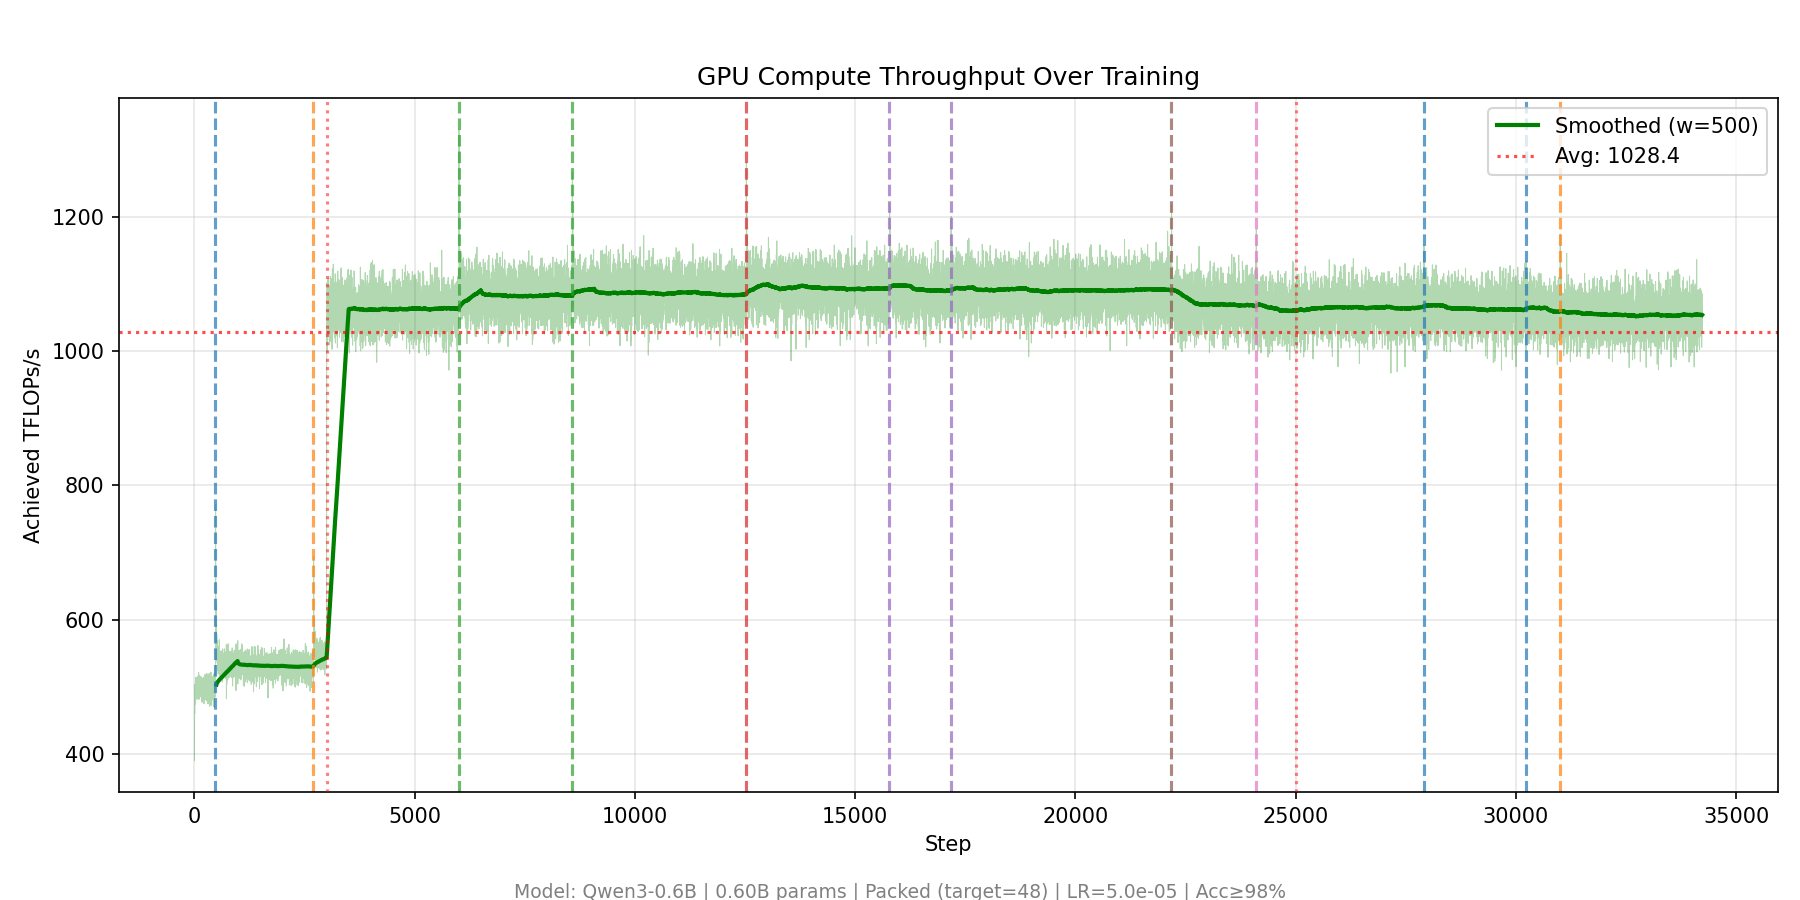
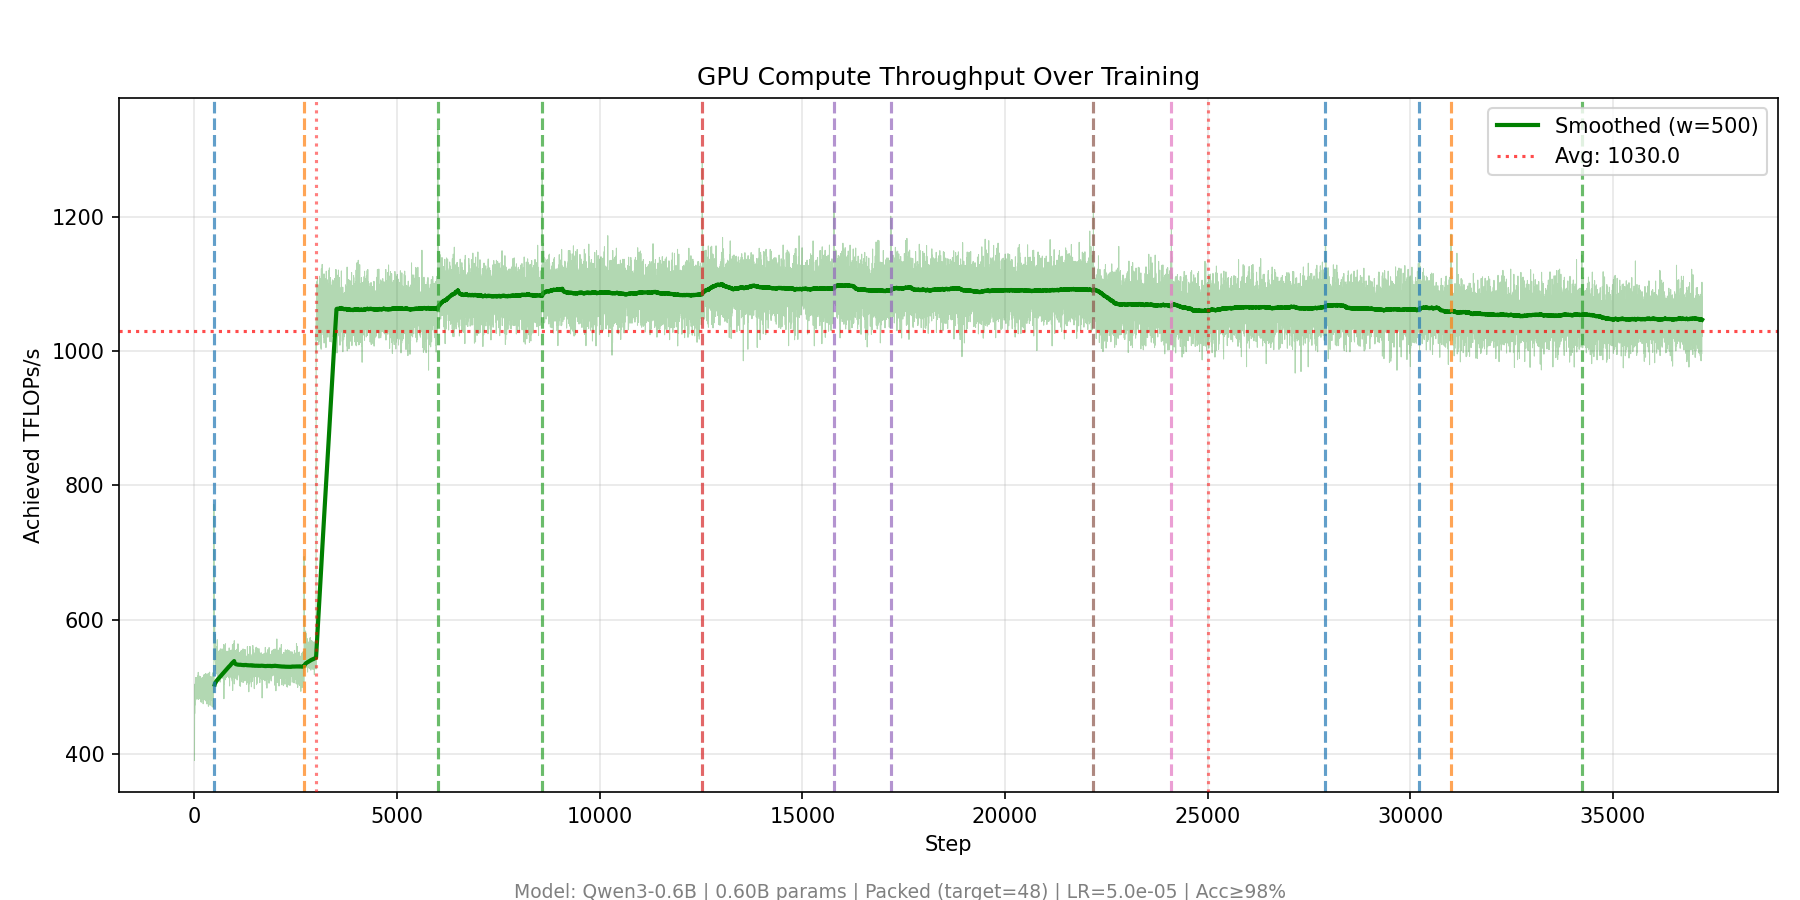
chore(exp1): sync progress and metrics (2026-10-14 15:31 UTC)

diff --git a/PROGRESS.md b/PROGRESS.md
@@ -3,7 +3,7 @@
 **Base commit:** `da7b19c` (`main`)
 **Branch:** `jackierwzhang/exp1-qwen06b-lora-vs-fullft`
 **VMs:** `nl-exp1-spot-fullft` (`europe-west1-c`, deleted after completion), `nl-exp1-spot-r8` (`a3-highgpu-4g`, 4x H100-80GB Spot, `us-east4-a`), `nl-exp1-spot-r64` (`a3-highgpu-4g`, 4x H100-80GB Spot, `europe-west1-c`), `nl-exp1-spot-r256` (`a3-highgpu-4g`, 4x H100-80GB Spot, `us-east4-b`)
-**Last updated:** 2026-10-14 15:14 UTC
+**Last updated:** 2026-10-14 15:31 UTC
 
 ## Shared Configuration
 
@@ -26,11 +26,11 @@
 | Arm | Job ID | Mode | GPUs | Status | Step | Stage / $L$ | Rolling Full Acc | Rolling First Acc | Loss | PFLOPs | TFLOP/s | Wall Time | Est. Remaining |
 | :--- | :--- | :--- | :--- | :--- | ---: | :--- | ---: | ---: | ---: | ---: | ---: | ---: | :--- |
 | Full-FT | `exp1_qwen06b_fullft` | Full FT | 0,1,2,3 (Spot 4x H100: nl-exp1-spot-fullft, europe-west1-c) | Completed | 27570 | 16 (`L=128`) | 97.62% | 98.88% | 0.0163 | 116023.73 | 405.3 | 71.26h | 0.0h (Done) |
-| LoRA `R=8` | `exp1_qwen06b_lora_r8` | `--use_lora --lora_rank 8` (`alpha=16, dropout=0.1`) | 0,1,2,3 (Spot 4x H100: nl-exp1-spot-r8, us-east4-a) | Running | 37170 | 14 (`L=112`) | 97.38% | 98.25% | 0.0182 | 124722.59 | 237.0 | 109.10h | ~33.7h (stage-wt) / ~0.0h (82k PFLOPs ref) |
-| LoRA `R=64` | `exp1_qwen06b_lora_r64` | `--use_lora --lora_rank 64` (`alpha=128, dropout=0.1`) | 0,1,2,3 (Spot 4x H100: nl-exp1-spot-r64, europe-west1-c) | Running | 27570 | 15 (`L=120`) | 96.25% | 97.12% | 0.0172 | 109762.97 | 221.5 | 102.09h | ~14.8h (stage-wt) / ~0.0h (82k PFLOPs ref) |
-| LoRA `R=256` | `exp1_qwen06b_lora_r256` | `--use_lora --lora_rank 256` (`alpha=512, dropout=0.1`) | 0,1,2,3 (Spot 4x H100: nl-exp1-spot-r256, us-east4-b) | Running | 29050 | 9 (`L=72`) | 96.88% | 98.62% | 0.0216 | 83570.62 | 160.5 | 107.56h | ~222.8h (stage-wt) / ~0.0h (82k PFLOPs ref) |
+| LoRA `R=8` | `exp1_qwen06b_lora_r8` | `--use_lora --lora_rank 8` (`alpha=16, dropout=0.1`) | 0,1,2,3 (Spot 4x H100: nl-exp1-spot-r8, us-east4-a) | Running | 37220 | 15 (`L=120`) | 96.12% | 97.25% | 0.0198 | 125025.10 | 237.8 | 109.42h | ~30.3h (stage-wt) / ~0.0h (82k PFLOPs ref) |
+| LoRA `R=64` | `exp1_qwen06b_lora_r64` | `--use_lora --lora_rank 64` (`alpha=128, dropout=0.1`) | 0,1,2,3 (Spot 4x H100: nl-exp1-spot-r64, europe-west1-c) | Running | 27620 | 15 (`L=120`) | 97.12% | 98.00% | 0.0197 | 110079.97 | 219.1 | 102.39h | ~14.8h (stage-wt) / ~0.0h (82k PFLOPs ref) |
+| LoRA `R=256` | `exp1_qwen06b_lora_r256` | `--use_lora --lora_rank 256` (`alpha=512, dropout=0.1`) | 0,1,2,3 (Spot 4x H100: nl-exp1-spot-r256, us-east4-b) | Running | 29100 | 9 (`L=72`) | 96.88% | 97.88% | 0.0210 | 83764.98 | 160.2 | 107.81h | ~223.3h (stage-wt) / ~0.0h (82k PFLOPs ref) |
 
-> **ETA Methodology & Overall Experiment 1 Completion (3 Active Arms on 12x Spot H100; Full-FT Completed):** `stage-wt` scales current wall time by remaining lookahead units ($\sum_{k=1}^{16} k = 136$); `82k PFLOPs ref` divides remaining compute against the collaborator's `Qwen3-0.6B` `step=8` cold-start reference (`82,000 PFLOPs` to `L=128`) by the arm's measured `PFLOPs/h` rate. Next arm completion is estimated in **~14.8h (stage-wt) / ~0.0h (82k PFLOPs ref)**; full 4-arm concurrent completion is bounded by the slowest arm at **~222.8h (stage-wt) to ~0.0h (82k PFLOPs ref)**.
+> **ETA Methodology & Overall Experiment 1 Completion (3 Active Arms on 12x Spot H100; Full-FT Completed):** `stage-wt` scales current wall time by remaining lookahead units ($\sum_{k=1}^{16} k = 136$); `82k PFLOPs ref` divides remaining compute against the collaborator's `Qwen3-0.6B` `step=8` cold-start reference (`82,000 PFLOPs` to `L=128`) by the arm's measured `PFLOPs/h` rate. Next arm completion is estimated in **~14.8h (stage-wt) / ~0.0h (82k PFLOPs ref)**; full 4-arm concurrent completion is bounded by the slowest arm at **~223.3h (stage-wt) to ~0.0h (82k PFLOPs ref)**.
 
 ## Stage Evaluation Summary (`stage_eval_history.json`)
 
@@ -65,6 +65,7 @@
 | LoRA `R=8` | 11 | 30225 | 88 | 0.697 | 0.0637 | 89.40% | 89.20% | 98.40% | 98.00% |
 | LoRA `R=8` | 12 | 31000 | 96 | 0.760 | 0.0679 | 91.60% | 91.40% | 97.80% | 97.80% |
 | LoRA `R=8` | 13 | 34225 | 104 | 0.823 | 0.0458 | 94.20% | 94.00% | 98.20% | 97.80% |
+| LoRA `R=8` | 14 | 37200 | 112 | 0.886 | 0.0366 | 96.60% | 96.60% | 98.40% | 98.40% |
 | LoRA `R=64` | 1 | 450 | 8 | 0.067 | 0.5967 | 39.40% | 39.40% | 98.80% | 98.80% |
 | LoRA `R=64` | 2 | 1300 | 16 | 0.130 | 0.3640 | 45.80% | 45.20% | 98.80% | 98.80% |
 | LoRA `R=64` | 3 | 2675 | 24 | 0.193 | 0.3256 | 51.20% | 51.00% | 99.20% | 99.20% |
